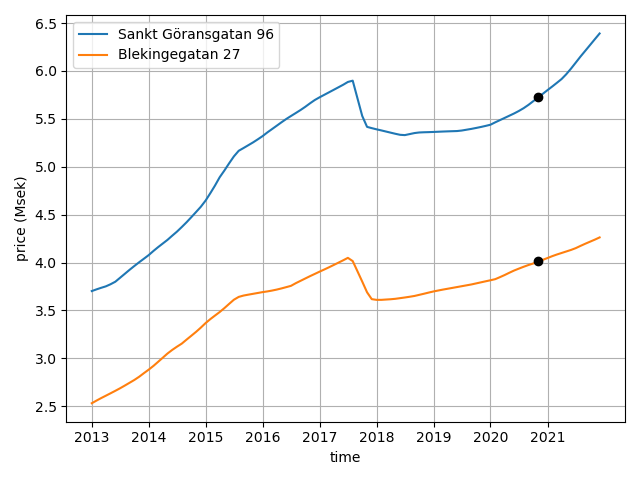
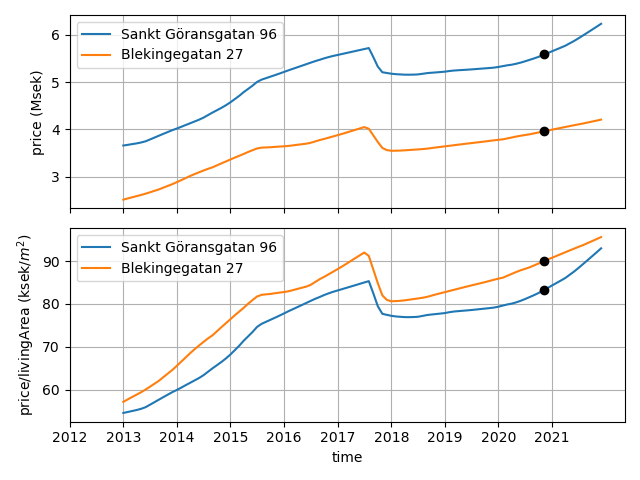
plot also price density over time

diff --git a/apartment_prices/use_model_tf.py b/apartment_prices/use_model_tf.py
@@ -82,21 +82,30 @@ def plot_price_change_over_time(model, apartments):
     features = model.attributes['features']
     times, prices = get_price_history(model, apartments.values())
     time_index = np.where(features == 'soldDate')[0][0]
-    # Plot prices
-    plt.figure()
+    area_index = np.where(features == 'livingArea')[0][0]
+    fig, axes = plt.subplots(nrows=2, sharex=True)
     for j, (label, apartment) in enumerate(apartments.items()):
-        plt.plot(times, prices[:, j] / 10**6, '-', label=label)
+        axes[0].plot(times, prices[:, j] / 10**6, '-', label=label)
+        axes[1].plot(times, prices[:, j] / (apartment[area_index] * 10**3), '-', label=label)
         # Plot current price
         tmp = apartment.copy()
         time_stamp = datetime.now().timestamp()
         tmp[time_index] = time_stamp
-        plt.plot(time_stamp, model.predict(tmp) / 10**6, 'o', color='k')
-    plt.xlabel('time')
-    plt.ylabel('price (Msek)')
+        price_tmp = model.predict(tmp)
+        axes[0].plot(time_stamp, price_tmp / 10**6, 'o', color='k')
+        axes[1].plot(time_stamp, price_tmp / (tmp[area_index] * 10**3), 'o', color='k')
+    axes[1].set_xlabel('time')
+    axes[0].set_ylabel('price (Msek)')
+    axes[1].set_ylabel('price/livingArea (ksek/$m^2$)')
     years = range(datetime.utcfromtimestamp(np.min(times)).year, datetime.utcfromtimestamp(np.max(times)).year + 1)
-    plt.xticks([time_stuff.get_time_stamp(year, 1, 1) for year in years], years)
-    plt.grid()
-    plt.legend()
+    axes[0].set_xticks([time_stuff.get_time_stamp(year, 1, 1) for year in years])
+    axes[0].set_xticklabels(years)
+    axes[1].set_xticks([time_stuff.get_time_stamp(year, 1, 1) for year in years])
+    axes[1].set_xticklabels(years)
+    axes[0].grid()
+    axes[1].grid()
+    axes[0].legend()
+    axes[1].legend()
     plt.tight_layout()
     plt.savefig('figures/time_evolve_new.pdf')
     plt.savefig('figures/time_evolve_new.png')
